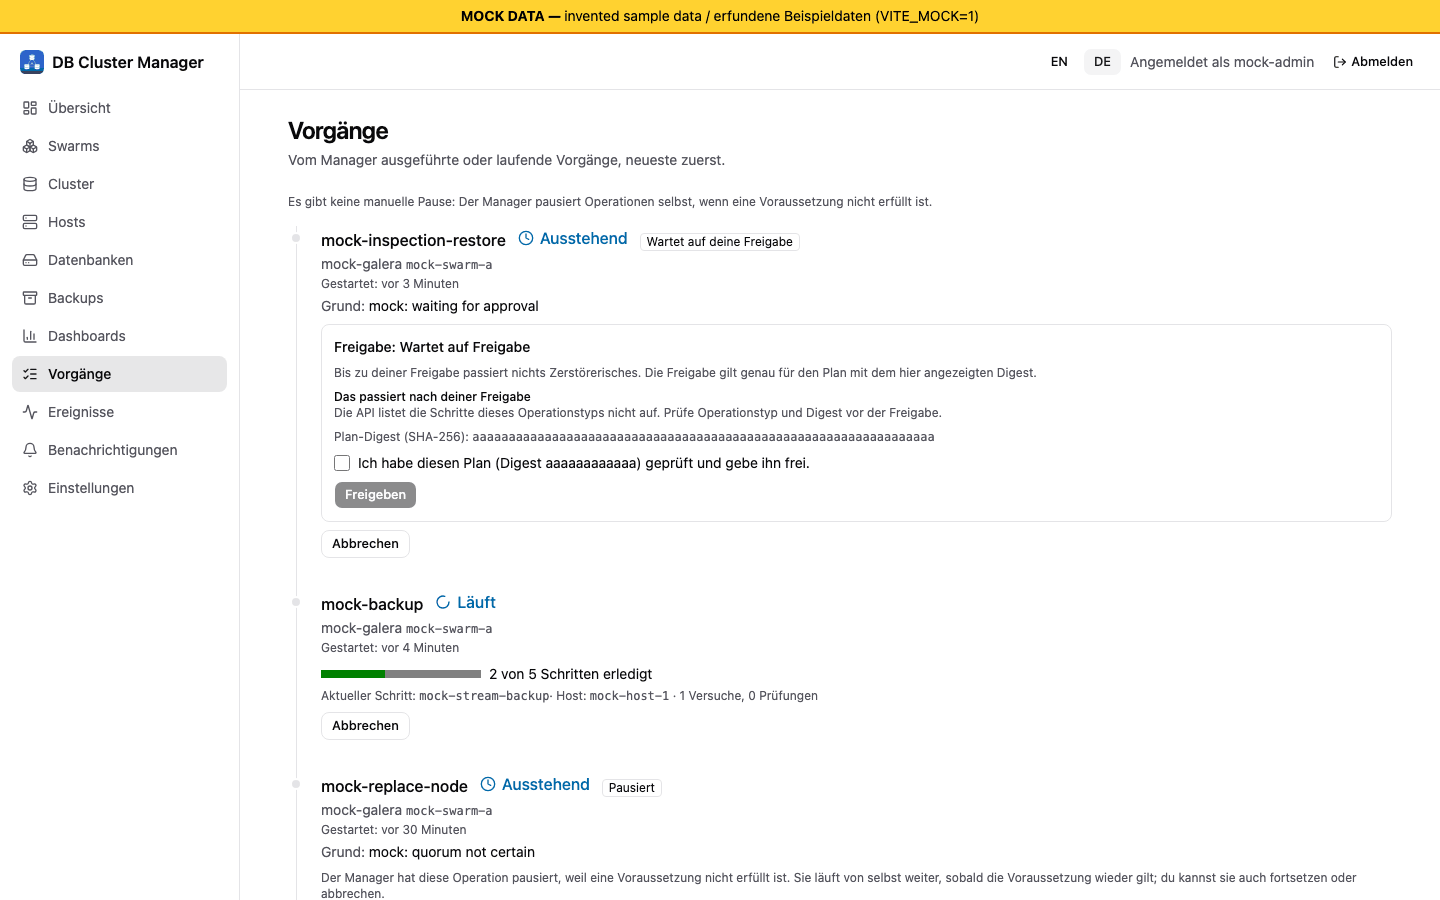
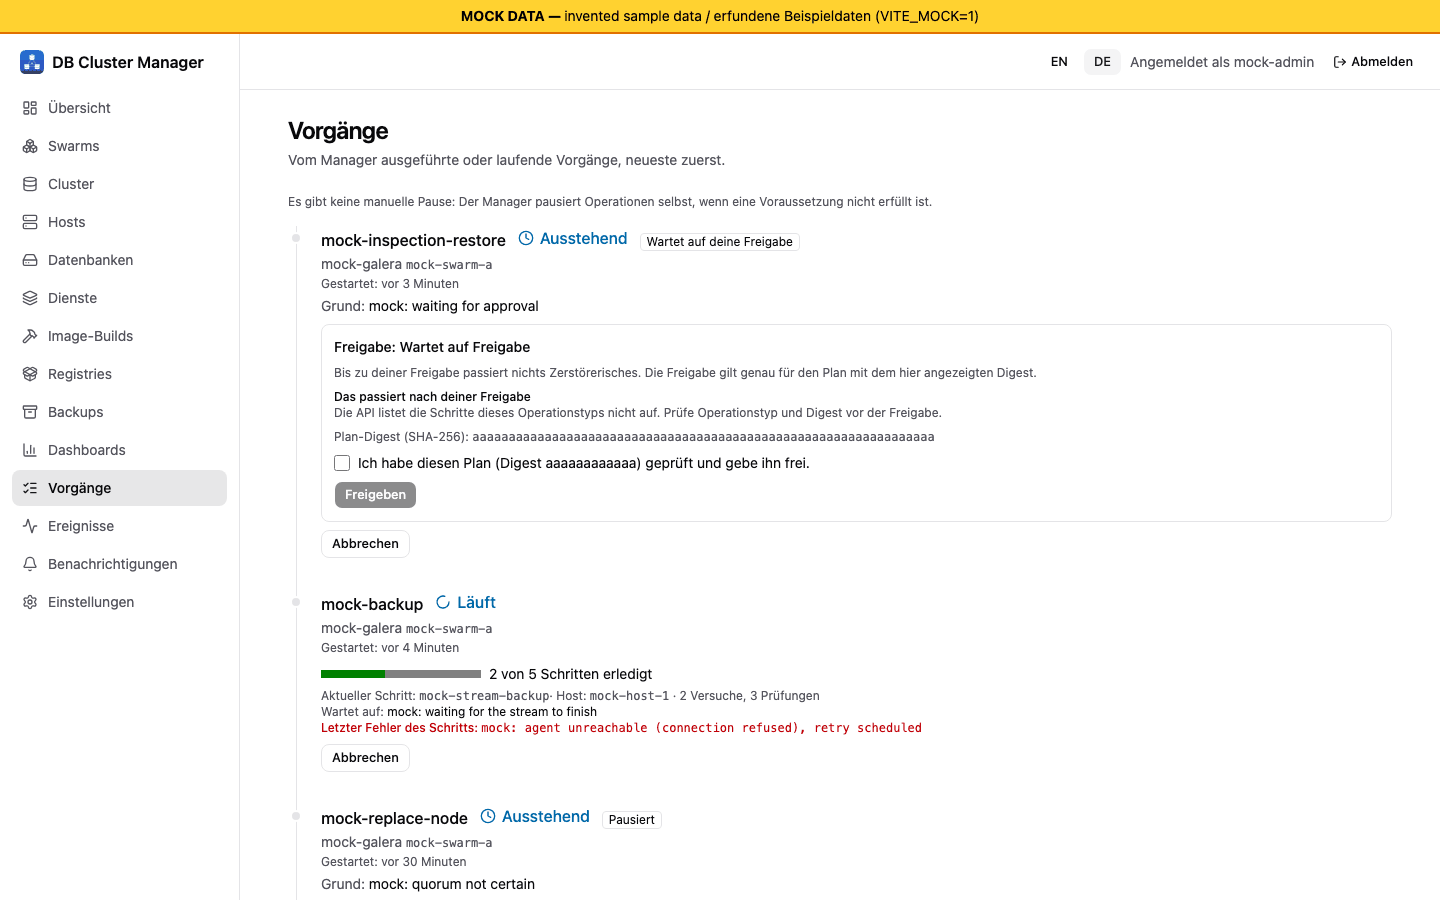
web: hosts table scrolls horizontally, agent last-answer as time; docs: guides, STATUS, WORKPLAN, mock screenshots for hosts and operations

diff --git a/web/src/routes/(app)/hosts/+page.svelte b/web/src/routes/(app)/hosts/+page.svelte
@@ -1,7 +1,8 @@
 <script lang="ts">
 	import { api, asApiError, type ApiError, type Host } from '../../../lib/api';
 	import { load } from '../../../lib/load.svelte';
-	import { t } from '../../../lib/locale.svelte';
+	import { locale, t } from '../../../lib/locale.svelte';
+	import { dateTime, relativeAge } from '../../../lib/format';
 	import type { MessageKey } from '../../../lib/i18n';
 	import { canEnroll, canRevoke } from '../../../lib/operations';
 	import { canEnterMaintenance, canLeaveMaintenance, maintenanceState } from '../../../lib/platform';
@@ -53,7 +54,7 @@
 {:else if hosts.state.value.length === 0}
 	<p class="text-sm text-muted-foreground">{t('hostsEmpty')}</p>
 {:else}
-	<div class="rounded-lg border">
+	<div class="overflow-x-auto rounded-lg border">
 		<Table.Root>
 			<Table.Header>
 				<Table.Row>
@@ -85,7 +86,7 @@
 						<Table.Cell>{h.agentIdentity ? t('identityRecorded') : t('identityNone')}</Table.Cell>
 						<Table.Cell class="font-mono text-xs">{h.engineVersion ?? t('stateUnknown')}</Table.Cell>
 						<Table.Cell class="font-mono text-xs">{h.agentVersion ?? t('stateUnknown')}</Table.Cell>
-						<Table.Cell>{#if h.agentSeenAt}<Freshness at={h.agentSeenAt} />{:else}<span class="text-xs text-muted-foreground">{t('agentNeverSeen')}</span>{/if}</Table.Cell>
+						<Table.Cell>{#if h.agentSeenAt}<time class="text-xs" datetime={h.agentSeenAt} title={dateTime(h.agentSeenAt, locale.value)}>{relativeAge(h.agentSeenAt, locale.value)}</time>{:else}<span class="text-xs text-muted-foreground">{t('agentNeverSeen')}</span>{/if}</Table.Cell>
 						<Table.Cell><Freshness at={h.observedAt} /></Table.Cell>
 						<Table.Cell>
 							<div class="flex flex-wrap gap-2">

diff --git a/docs/STATUS.md b/docs/STATUS.md
@@ -135,7 +135,17 @@ Checks run on this branch: `gofmt -l .` (no output), `go vet ./...`, `go test -r
 
 `web/` now follows `api/openapi.yaml` for: operation `progress` (step bar, current step, host, waiting reason, attempts) and the phases waiting-for-approval and paused; approval with the digest, preceded by the documented step list for `cluster/delete`, `galera/full-outage-recovery` and inspection restores (other kinds say the API lists no steps); cluster delete (`DELETE /clusters/{id}`) with typed cluster-name confirmation, then the plan and approval in the operation card; node replace with a followed operation and the quorum explanation; full-outage diagnosis (safe_to_bootstrap, highest seqno, optional `POST outage-diagnosis` position recovery), `POST outage-recovery` for the proposed candidate and approval of the returned plan; start backup, backup policy edit (cron shape and time zone checked client-side), restore verification note; notification settings page (`/notifications/settings`: minimum severity, webhook with allow-private, SMTP, write-only secrets, test send); recent events per cluster (node outage events appear there when the manager emits them); severity `error`. Pure logic is in `web/src/lib/lifecycle.ts` with vitest tests (94 tests in total pass); `npm run check`, `npm run build` and `scripts/check_docs.py` pass.
 
-Deviations and gaps: the host table cannot show an agent version or last seen, because the API has neither (`Host` carries `engineVersion`, `observedAt`, `agentIdentity`); it shows Docker version and the inventory observation time and says so. The UI never ran in a browser or against a real manager in this batch, and has never been used with a real authenticator or Firefox/Safari; the dev mock server was not extended for the new endpoints (later extended for outage recovery, deletion and progress; see "Icon, screenshots and landing page"). The plan step texts are static descriptions of the documented behavior, not read from the operation. Approval digest-binding, permission differences (delete versus restore) and `approval_mismatch` handling are only unit-tested at the client level.
+Deviations and gaps: at that time the host table could not show an agent version or last seen because the API had neither; since 2026-10-24 it does (see "UI gaps closed (W06)"). The UI never ran in a browser or against a real manager in this batch, and has never been used with a real authenticator or Firefox/Safari; the dev mock server was not extended for the new endpoints (later extended for outage recovery, deletion and progress; see "Icon, screenshots and landing page"). The plan step texts are static descriptions of the documented behavior, not read from the operation. Approval digest-binding, permission differences (delete versus restore) and `approval_mismatch` handling are only unit-tested at the client level.
+
+## UI gaps closed (W06, 2026-10-24)
+
+Most UI for the R1 backend endpoints already existed (commit `47b5a14`, mock only): services and Traefik plan, image builds, registries, host maintenance, drift report, replica keyring, logical backup policy with retention. This batch checked those against the API and closed the two remaining gaps, verified with unit tests, `svelte-check`, the mock server and mock screenshots only (no real manager, no real browser session against a real backend):
+
+- **Operation `progress.lastError`** is shown in red under the current step on the Operations page (`progressView` carries it; the mock operation has one). DE/EN strings, vitest cases.
+- **Host agent version and last answer:** the API had neither, so `api.Host` got `agentVersion` and `agentSeenAt` (OpenAPI, contract test `TestHostSchemaListsEveryField`). Source: every answer of the agent command endpoint carries the header `X-Dbcm-Agent-Version`; `AgentDirectory` records version and time on the host record after any HTTP answer, best effort and at most about once a minute (`TestAgentEnrollmentCommandsRenewalRevocation` covers it over mTLS). This is not a heartbeat: nothing contacts idle agents, so an old value is not proof of an outage. Older agents without the header record an empty version.
+- Screenshots `{en,de}-light-hosts.png` and `{en,de}-light-operations.png` re-captured from the mock server (mock data banner visible).
+
+Not done: no health-check polling of agents, no UI test in a real browser beyond the mock captures, the Hosts table needs horizontal scroll at 1440 px width (last columns).
 
 ## Icon, screenshots and landing page (2026-10-23)
 
@@ -160,7 +170,7 @@ Record: [e4-rerun-A2.md](../tests/p0/results/e4-rerun-A2.md), raw log `e4-rerun-
 ### failcreate findings fixed (2026-10-24, fakes and unit tests only, not re-run on VMs)
 
 - **Abort during retries (root cause from code):** the runner checked an abort request only before a step and while polling preconditions; the retry loop of an idempotent step (exec-sql, up to `operationRetries` = 30 retries with backoff up to 30 s, about 13 minutes) never looked at it. Now the abort is checked before every (re)attempt, interrupts the retry backoff, and cancels an in-flight command of an idempotent kind. The cancelled step stays **Unknown** in the journal and the abort reason names it ("outcome unknown for step(s) ... (inspect live state)"); an observed failure stays Failed; nothing is recorded as succeeded. A destructive command in flight is still awaited (bounded by the step timeout) so its outcome stays observable. After the abort the locks are released and the cluster deletion is accepted. Tests: `internal/runner/abort_test.go` (backoff, in-flight, in-doubt retry; they fail against the previous runner) and `internal/manager/abortretry_test.go` (create, abort while exec-sql retries or is in flight, then delete succeeds and the name is free).
-- **Error text:** retry reasons now carry the agent's answer (`idempotent step failed: failed (code): message`), the operation view's `progress.lastError` holds the latest failed or unanswered attempt of the current step, and the manager logs `runner: step retry` (WARN, with op, step, retry number, backoff, reason) and status changes (failed/stopped WARN, paused/aborted/succeeded INFO). Texts pass `runner.Redact` (SQL `IDENTIFIED BY '...'`, `password=`/`token:`-style values, DSN passwords; bounded to 1 KiB) on top of the agent's own secret redaction; the patterns are a best effort. The UI does not display `lastError` yet (type and guard only; frontend checks not run, no `node_modules`).
+- **Error text:** retry reasons now carry the agent's answer (`idempotent step failed: failed (code): message`), the operation view's `progress.lastError` holds the latest failed or unanswered attempt of the current step, and the manager logs `runner: step retry` (WARN, with op, step, retry number, backoff, reason) and status changes (failed/stopped WARN, paused/aborted/succeeded INFO). Texts pass `runner.Redact` (SQL `IDENTIFIED BY '...'`, `password=`/`token:`-style values, DSN passwords; bounded to 1 KiB) on top of the agent's own secret redaction; the patterns are a best effort. The Operations page now shows `lastError` (mock-verified, see "UI gaps closed (W06)").
 - **Why exec-sql kept failing (inferred, not observed):** the e4fail service had no container on any host (`owned_objects` before the abort) because its image cannot be pulled, so the node's database socket never appeared. exec-sql then answered `refused (invalid-path): database socket: lstat ...` on every attempt (the same error class was visible for the wait-synced steps in rcluster). The agent now reports a missing socket as `failed (db-not-running)` with an explicit message, and the runner names the retry "dependency not running: the database on <host> is not running". Not done: reading the Swarm task state and its error (for example "No such image") from the manager or agent, and waiting on it as a precondition instead of retrying exec-sql; neither component can list tasks yet. The next lab run must capture `docker service ps --no-trunc` of the e4fail services, `progress.lastError`, and the manager's `runner: step retry` lines; `op_diag` in the script now records all three.
 - **Script:** `tests/p0/e4-rerun.sh` failcreate, cleanuprestart and deleteall assert expected refusals and outcomes (`assert_fail`) instead of leaving them to `set -e` (A2 most likely exited at the refused delete because `delete_cluster` returned 1 under `set -e`); the exit status is 1 when any assertion failed, and the later phases still run. `opline` shows `lastError`. Only `bash -n` and `shellcheck` were run.
 

diff --git a/docs/WORKPLAN.md b/docs/WORKPLAN.md
@@ -10,7 +10,7 @@ Status labels: READY, PENDING, IN PROGRESS, DONE, BLOCKED. Only mark DONE with r
 | W03 | DONE | Design and prototype manager metadata HA/fencing and Swarm/local-storage ownership | ADR 0003 with in-process evidence (`go test -race -count=3 ./...` passes; 4 failure scenarios in `internal/metastore/scenarios_test.go`), library evaluation, ADR 0004 (proposal, unverified against Docker). Limits: in-memory, no VMs, no real network |
 | W04 | DONE | Implement dedicated local lab creation/inventory/cleanup within resource budget | `bin/lab` (status/plan/apply/cleanup with ownership manifest, 47+16 unit tests with fake runner). Real cycle on 2026-10-19: one VM `dbcm-lab-m1` (2 CPU, 2 GiB, 10 GiB) created, measured (guest 2 vCPU, ~1.9 GiB RAM, Docker 29.9.1, 3.1 GiB on host disk), removed; the 3 unrelated resources (`colima:default`, 2 `thermoctl-*` VMs) were unchanged and reported intact. Limit: host free space dropped about 3.4 GB across the cycle and was not shown to be reclaimed (other host activity not ruled out) |
 | W05 | IN PROGRESS | Execute P0 Galera/agent/routing experiments | P0 acceptance gates in release plan, compatibility limits and test artifacts. Done so far: E1, E2, E3, E4, E5 (single proxy instance against real Galera), E6 (clean and crash full outage, approval-gated guided recovery) — see ADR 0004, 0008, 0010, 0011 evidence, `tests/p0/results/e4-manager-galera.md` and `tests/p0/results/e5-e6-proxy-outage.md`. E4 gaps closed in code with fakes only (cluster delete/discard, worker-host restore/inspection jobs, Galera position from the stream, node-outage notification, operation progress, restore verification; see `docs/STATUS.md` "E4 gaps closed"). E4 re-run Part A attempt 2 (2026-10-23/24) passed up to `capacity` and failed in `failcreate` (abort of a retrying create); fixed with fakes only, not re-run (see `docs/STATUS.md` "failcreate findings fixed"). Not met: redundant proxies/VIP, three-manager failover with the real manager on VMs, resource exhaustion/capacity denial, restart during cleanup, VM power loss, resource measurements per gate, native amd64 |
-| W06 | IN PROGRESS | Refine R1 work packages from evidence and implement incrementally | Traceable requirements, tests and bilingual user guides per package. 2026-10-23, fakes only: recover permission and full-outage notification, replicated data keyring with recovery envelope, metastore peer mTLS, deny-list distribution and replica certificate revocation (ADR 0013), keyed backup manifest digests (ADR 0009 amendment), host maintenance, drift detection, logical and scheduled backups with retention (see `docs/STATUS.md` "R1 backend gaps closed"). Not done: UI for these endpoints, user guides, VM evidence, PITR, key rotation, membership changes. Also 2026-10-23: product-neutral app icon (Icon Composer document, exported with `ictool`), favicons in UI and Pages, mock-server screenshots (EN/DE, light, some dark) in README, Pages landing page and user guides (see `docs/DESIGN.md` "Icon and screenshots"); Jekyll build not run locally |
+| W06 | IN PROGRESS | Refine R1 work packages from evidence and implement incrementally | Traceable requirements, tests and bilingual user guides per package. 2026-10-23, fakes only: recover permission and full-outage notification, replicated data keyring with recovery envelope, metastore peer mTLS, deny-list distribution and replica certificate revocation (ADR 0013), keyed backup manifest digests (ADR 0009 amendment), host maintenance, drift detection, logical and scheduled backups with retention (see `docs/STATUS.md` "R1 backend gaps closed"). UI for these endpoints exists (mock only; 2026-10-24: progress.lastError, agent version/last answer on Hosts added). Not done: VM evidence, PITR, key rotation, membership changes. Also 2026-10-23: product-neutral app icon (Icon Composer document, exported with `ictool`), favicons in UI and Pages, mock-server screenshots (EN/DE, light, some dark) in README, Pages landing page and user guides (see `docs/DESIGN.md` "Icon and screenshots"); Jekyll build not run locally |
 | W07 | IN PROGRESS (fakes only) | R6 (proposal): service-type framework, Galera expressed as a service type without changing its safety logic, generic containers, plan preview/export/expert view, Docker engine updates after the X09 boundary decision | R6 exit gates in the release plan. Done so far, **fakes only** (2026-10-23, branch `w07-service-types`): `internal/service` registry with `container` and `traefik` types, plans with artifacts/warnings/blockers, conversion to agent specs and runner operations, manager `Services` and `/services` API routes with approval and audit, `service` authz resource. Not done: Galera as a service type, health wiring, updates, UI, port publishing and config-file delivery in the agent, any real run. Starts after R1 unless the owner decides otherwise |
 | W08 | IN PROGRESS | R7 (proposal): image build service, managed/external registries, web server composer (Nginx/PHP/extensions/config) | R7 exit gates; depends on build-tool and registry decisions. 2026-10-23, fakes only: `internal/imagebuild` (composition model, deterministic Dockerfile render, plan with approval digest, Builder interface, docker/BuildKit command construction, job records with log redaction), `internal/registry` (OCI client against an `httptest` registry, managed `registry:2` spec, distribution policy) and `/image-builds`, `/registries` API routes (see `docs/STATUS.md` "Image build and registry groundwork"). Not done: manager wiring and persistence, UI, any real build or push, SBOM/scan/signing, managed registry deployment (needs W07) |
 | W09 | PENDING | R8 (proposal): storage protocol servers (SFTP, FTP(S), S3-compatible, NFS) and Traefik UI management | R8 exit gates; depends on storage/Traefik scope decisions; no evidence yet |

diff --git a/docs/guides/de/09-troubleshooting.md b/docs/guides/de/09-troubleshooting.md
@@ -19,7 +19,7 @@ Einträge mit „im Labor gesehen“ wurden in den Experimenten E4-E6 beobachtet
 | Kein Passkey-Dialog oder Origin-Fehler | `rpId` oder `origins` passen nicht zur verwendeten HTTPS-URL | Konfiguration korrigieren; Passkeys brauchen den exakten HTTPS-Origin. |
 | Alle Passkeys verloren | - | Wiederherstellungscode einlösen (`/auth/recovery/code`), dann neuen Passkey registrieren. Einen Befehl zum Ausstellen von Wiederherstellungs-URLs gibt es noch nicht. |
 | API antwortet 503 mit `X-DCM-Leader` | Dieses Replikat ist nicht Metastore-Leader (keine Weiterleitung) | Den Leader ansprechen. Mehrere Replikate sind auf VMs ungetestet. Führt kein Replikat und das Log meldet, den Datenschlüssel nicht entpacken zu können, ist das Replikat noch nicht im Schlüsselring registriert: siehe [Betriebshandbuch](11-operator-runbook.md#5-replikate-schlüsselring-und-peer-zertifikate). |
-| Operation `paused` oder ein Schritt pollt dauernd | Ungeklärte Vorbedingung (z. B. Knoten nicht `Synced`) | `progress` in `GET /api/v1/operations` lesen, Ursache beheben, dann `POST /api/v1/operations/{id}/resume`. Abbruch greift beim nächsten Poll oder Schrittwechsel (`.../abort`). |
+| Operation `paused` oder ein Schritt pollt dauernd | Ungeklärte Vorbedingung (z. B. Knoten nicht `Synced`) | `progress` in `GET /api/v1/operations` lesen (die Seite Vorgänge zeigt den Wartegrund und in Rot den letzten Fehler des Schritts), Ursache beheben, dann `POST /api/v1/operations/{id}/resume`. Abbruch greift beim nächsten Poll oder Schrittwechsel (`.../abort`). |
 | `409 busy` oder `resource locked` | Eine andere Operation hält den Cluster | Warten oder die unfertige/fehlgeschlagene Operation zuerst abbrechen. |
 | `409 requires_guided_recovery` beim Ersetzen | Quorum oder geprüfter Donor nicht beobachtet | Weg der [Totalausfall-Wiederherstellung](07-full-outage-recovery.md); keine Übersteuerung. |
 | `403` bei der Freigabe einer Totalausfall-Wiederherstellung | Die Berechtigung `recover` hat nur das Administrator-Preset | Als Administrator freigeben. |

diff --git a/docs/guides/en/09-troubleshooting.md b/docs/guides/en/09-troubleshooting.md
@@ -19,7 +19,7 @@ Entries marked "seen in lab" were observed in experiments E4-E6 (see `tests/p0/r
 | No passkey prompt, or origin mismatch | `rpId` or `origins` do not match the HTTPS URL you use | Fix the config; passkeys need the exact HTTPS origin. |
 | All passkeys lost | - | Redeem a recovery code (`/auth/recovery/code`), then register a new passkey. There is no command line to issue recovery URLs yet. |
 | API answers 503 with `X-DCM-Leader` | This replica is not the metastore leader (no forwarding) | Ask the leader. Multi-replica operation is untested on VMs. If no replica leads and the log says it cannot unwrap the data key, the replica is not registered in the keyring yet: see the [runbook](11-operator-runbook.md#5-replicas-key-ring-and-peer-certificates). |
-| Operation `paused` or a step keeps polling | An unmet precondition (for example a node not `Synced`) | Read `progress` in `GET /api/v1/operations`, fix the cause, then `POST /api/v1/operations/{id}/resume`. Abort works at the next poll or step boundary (`.../abort`). |
+| Operation `paused` or a step keeps polling | An unmet precondition (for example a node not `Synced`) | Read `progress` in `GET /api/v1/operations` (the Operations page shows the waiting reason and, in red, the step's last error), fix the cause, then `POST /api/v1/operations/{id}/resume`. Abort works at the next poll or step boundary (`.../abort`). |
 | `409 busy` or `resource locked` | Another operation holds the cluster | Wait, or abort the unfinished or failed operation first. |
 | `409 requires_guided_recovery` on replace | Quorum or a verified donor is not observed | Use the [full-outage recovery](07-full-outage-recovery.md) path; there is no override. |
 | `403` on approving a full-outage recovery | The `recover` permission is held by the administrator preset only | Approve as an administrator. |

diff --git a/docs/guides/de/02-hosts-and-agents.md b/docs/guides/de/02-hosts-and-agents.md
@@ -12,6 +12,8 @@ Der Manager führt nie selbst Befehle auf Hosts aus. Auf jedem eingebundenen Hos
 
 `POST /api/v1/swarms` mit dem Docker-Endpunkt (E4: `unix:///var/run/docker.sock` auf einem Swarm-Manager-Knoten), dann `POST /api/v1/swarms/{id}/sync`. Der Swarm steht auf `healthy`, `GET /api/v1/hosts` listet Knoten mit Rolle, CPUs, Speicher und Docker-Version [Lab-VMs] (3 Knoten). Die Anbindung an eine entfernte, gegenseitig authentifizierte Docker-API ist ein offener Entwurfspunkt (P04) [Ungetestet]. Eine Docker-Version außerhalb der Kompatibilitätsmatrix (nur Docker 29.x) wird markiert [Fakes].
 
+Die Seite **Hosts** zeigt je Host die Agent-Version und den Zeitpunkt, zu dem der Manager zuletzt eine HTTP-Antwort dieses Agents erhalten hat (`agentVersion`, `agentSeenAt` in `GET /api/v1/hosts`) [Fakes]. Der Manager speichert beides bei jedem Kontakt mit dem Agent, höchstens etwa einmal pro Minute. Es gibt keinen Heartbeat: Ein alter oder fehlender Wert beweist nicht, dass der Agent ausgefallen ist; ein Host ohne bisherigen Kontakt zeigt „noch nicht kontaktiert“. „Zuletzt beobachtet“ bleibt der Zeitpunkt des Swarm-Inventareintrags.
+
 ## Voraussetzungen, die Sie selbst schaffen müssen
 
 Der Manager legt sie noch nicht an und prüft sie nicht. Fehlendes führt zu verwirrenden Fehlern (siehe [Fehlersuche](09-troubleshooting.md)).

diff --git a/docs/guides/en/02-hosts-and-agents.md b/docs/guides/en/02-hosts-and-agents.md
@@ -12,6 +12,8 @@ The manager never runs commands on hosts by itself. A small **agent** runs on ea
 
 `POST /api/v1/swarms` with the Docker endpoint (E4: `unix:///var/run/docker.sock` on a Swarm manager node), then `POST /api/v1/swarms/{id}/sync`. The Swarm shows state `healthy`, and `GET /api/v1/hosts` lists nodes with roles, CPUs, memory and Docker version [Lab VMs] (3 nodes). Connecting to a remote, mutually authenticated Docker API is an open design item (P04) [Untested]. A Docker version outside the compatibility matrix (only Docker 29.x seeded) is flagged [Fakes].
 
+The **Hosts** page shows, per host, the agent version and when the manager last received an HTTP answer from that agent (`agentVersion`, `agentSeenAt` in `GET /api/v1/hosts`) [Fakes]. The manager records both whenever it talks to the agent, at most about once a minute. There is no heartbeat: an old or missing value does not prove the agent is down, and a host the manager never contacted shows "not contacted yet". "Last observed" remains the time of the Swarm inventory entry.
+
 ## Prerequisites you must create yourself
 
 The manager does not create or check these yet. Missing items give confusing failures (see [Troubleshooting](09-troubleshooting.md)).
